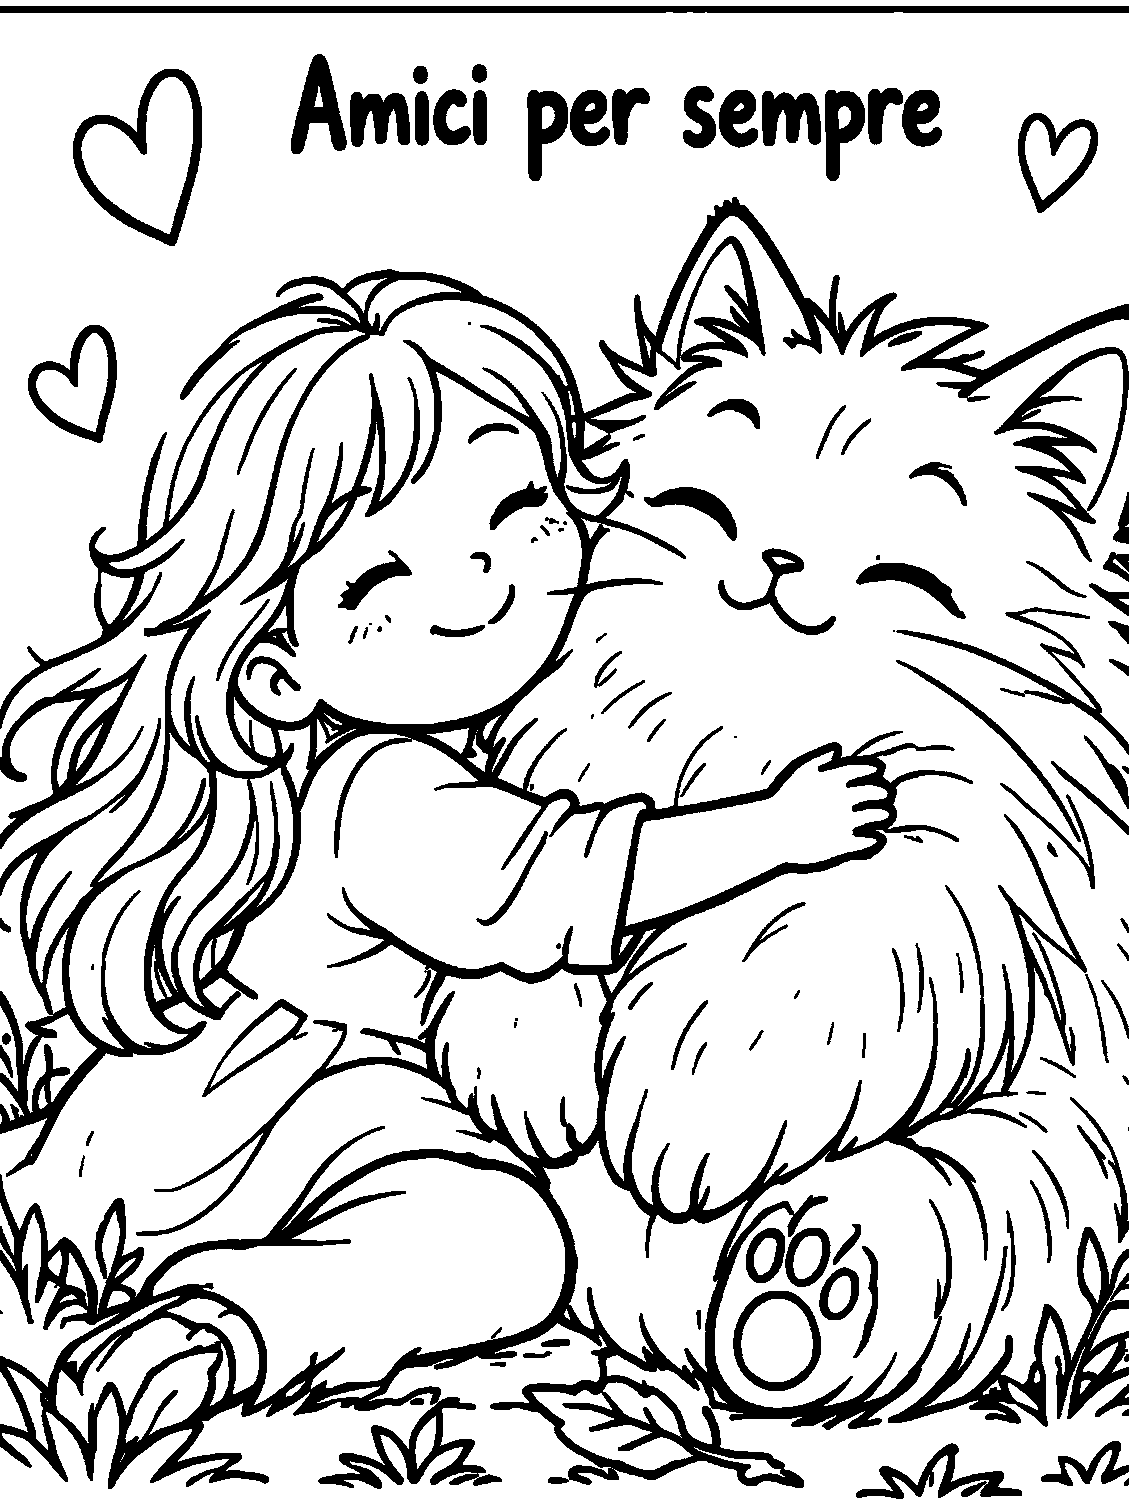
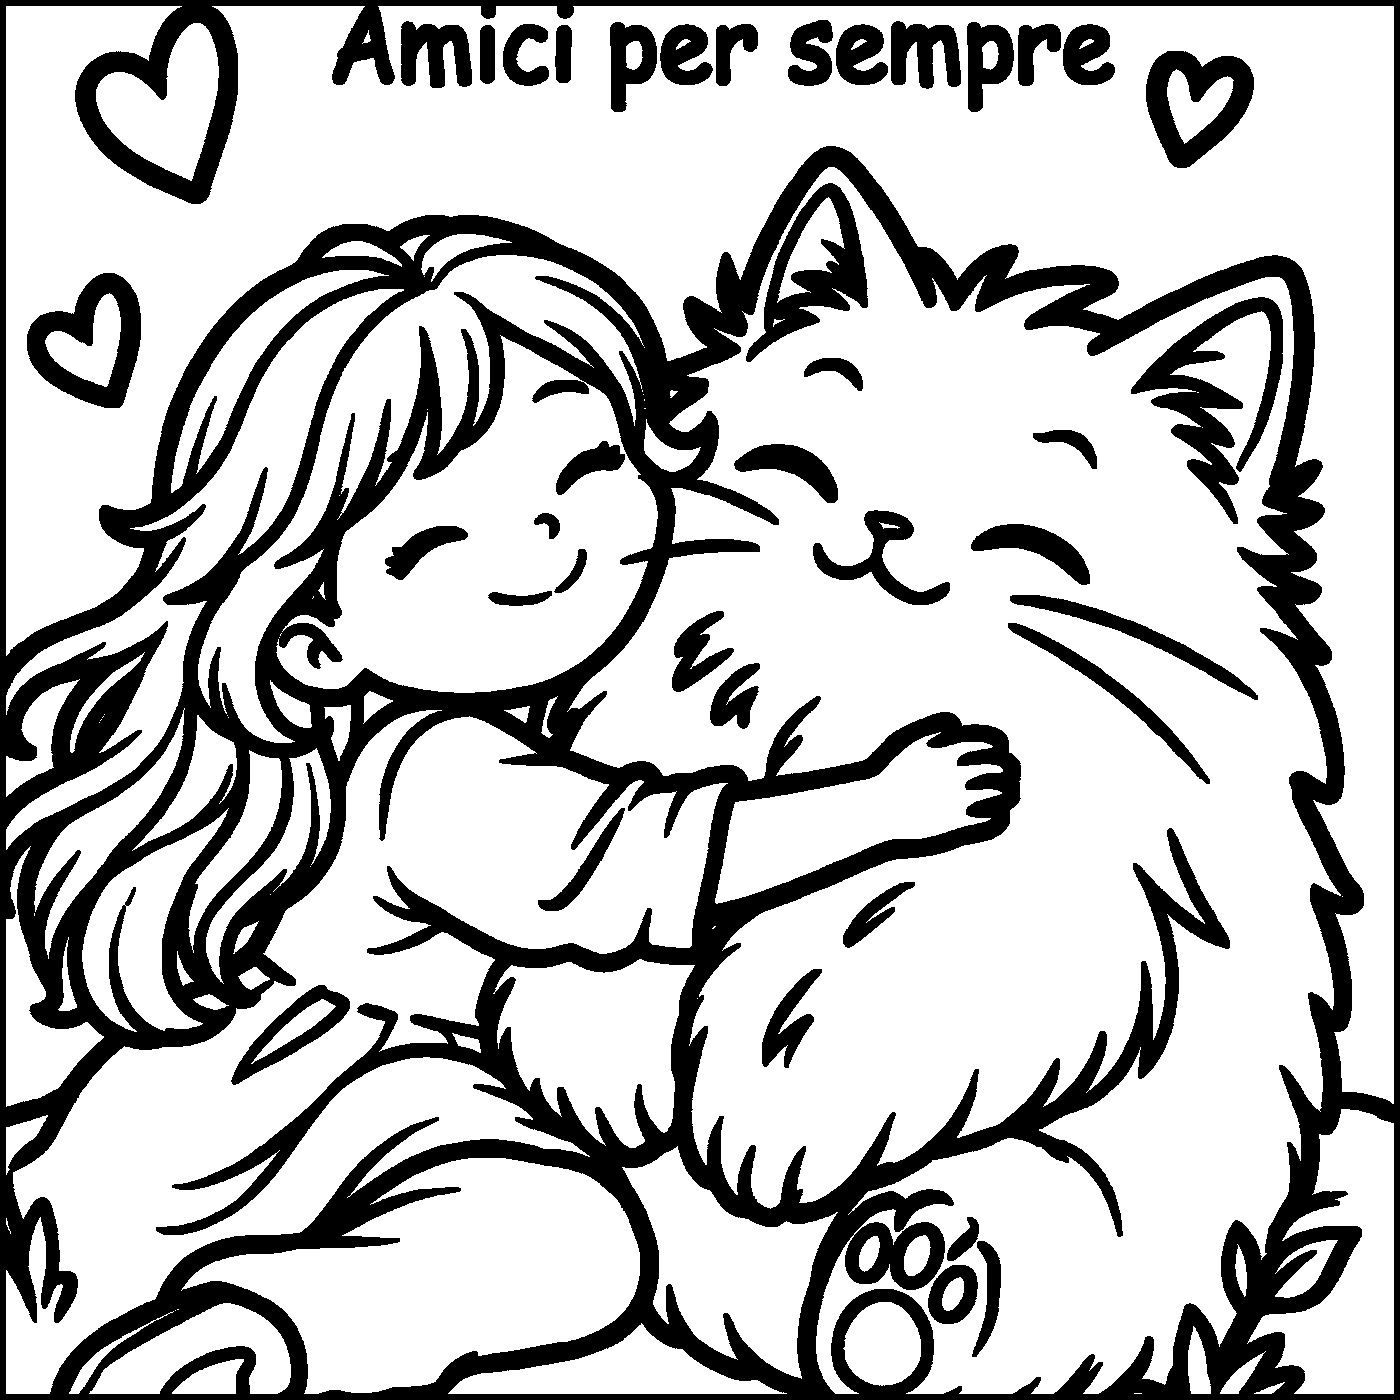
Pagine da colorare: il colore non esce più dal disegno

diff --git a/js/colora.js b/js/colora.js
@@ -7,12 +7,13 @@
     { id: "copertina", nome: "Chiwinnie" }, { id: "crescita", nome: "Le fasi della crescita" },
     { id: "colori", nome: "I colori della natura" }, { id: "bosco", nome: "Nel bosco" },
     { id: "amici", nome: "Amici per sempre" }, { id: "spinaci", nome: "La razione quotidiana" },
-    { id: "arrabbiato", nome: "Quando si arrabbia" }, { id: "volare", nome: "Volare nel cielo" }
+    { id: "volare", nome: "Volare nel cielo" }
+    // "Quando si arrabbia" tolta per ora: il pelo a punte lascia varchi e il colore usciva dal disegno
   ];
   // colori morbidi da acquerello, compresi quelli dei Chiwinnie
   var COLORI = ["#b9a7e0", "#8a74c9", "#f3b3c8", "#e2789a", "#ffffff", "#9fc6ea", "#5f8fd0", "#a8d8a0",
     "#5fa865", "#f6dc7a", "#f2a65a", "#e5604f", "#c9925e", "#8a5a3c", "#9aa0a8", "#3d3d4a"];
-  var CHIAVE = "chiwinnie-colora-";
+  var CHIAVE = "chiwinnie-colora2-"; // "2": tavole ridisegnate con contorni chiusi
   var SOGLIA_LINEA = 200; // sotto questa luminosità il pixel è una linea del disegno
 
   function carica(chiave) { try { return localStorage.getItem(chiave); } catch (e) { return null; } }
@@ -115,30 +116,78 @@
       function rgb(hex) { var n = parseInt(hex.slice(1), 16); return [n >> 16 & 255, n >> 8 & 255, n & 255]; }
 
       // riempimento a scansione di righe: si ferma sulle linee del disegno
-      function riempi(x0, y0) {
-        if (x0 < 0 || y0 < 0 || x0 >= W || y0 >= H) return;
-        var start = y0 * W + x0;
-        if (barriera[start]) return;
-        ricorda();
-        var img = cctx.getImageData(0, 0, W, H), d = img.data, c = rgb(colore);
-        var fatto = new Uint8Array(W * H), pila = [start];
-        function colora(i) { d[i * 4] = c[0]; d[i * 4 + 1] = c[1]; d[i * 4 + 2] = c[2]; d[i * 4 + 3] = 255; }
+      // linee ingrossate di n pixel (calcolate solo quando servono)
+      var muri = {};
+      function ingrossa(n) {
+        if (muri[n]) return muri[n];
+        var cur = barriera;
+        for (var giro = 0; giro < n; giro++) {
+          var nx = new Uint8Array(W * H);
+          for (var yy = 1; yy < H - 1; yy++) for (var xx = 1; xx < W - 1; xx++) {
+            var q = yy * W + xx;
+            if (cur[q] || cur[q - 1] || cur[q + 1] || cur[q - W] || cur[q + W] ||
+                cur[q - W - 1] || cur[q - W + 1] || cur[q + W - 1] || cur[q + W + 1]) nx[q] = 1;
+          }
+          cur = nx;
+        }
+        muri[n] = cur;
+        return cur;
+      }
+      // punto libero più vicino al tocco, rispetto a un certo muro
+      function puntoLibero(muro, x0, y0, maxR) {
+        if (!muro[y0 * W + x0]) return y0 * W + x0;
+        for (var raggio = 1; raggio <= maxR; raggio++)
+          for (var dy = -raggio; dy <= raggio; dy++)
+            for (var dx = -raggio; dx <= raggio; dx++) {
+              var xx = x0 + dx, yy = y0 + dy;
+              if (xx >= 0 && yy >= 0 && xx < W && yy < H && !muro[yy * W + xx]) return yy * W + xx;
+            }
+        return -1;
+      }
+      // zona raggiungibile senza attraversare il muro (riempimento a scansione di righe)
+      function zona(muro, start) {
+        var fatto = new Uint8Array(W * H), pila = [start], n = 0;
         while (pila.length) {
           var i = pila.pop(), y = (i / W) | 0, x = i - y * W;
-          while (x > 0 && !barriera[i - 1] && !fatto[i - 1]) { i--; x--; }
+          while (x > 0 && !muro[i - 1] && !fatto[i - 1]) { i--; x--; }
           var sopra = false, sotto = false;
-          while (x < W && !barriera[i] && !fatto[i]) {
-            fatto[i] = 1; colora(i);
-            if (y > 0) {
-              var su = i - W;
-              if (!barriera[su] && !fatto[su]) { if (!sopra) { pila.push(su); sopra = true; } } else sopra = false;
-            }
-            if (y < H - 1) {
-              var giu = i + W;
-              if (!barriera[giu] && !fatto[giu]) { if (!sotto) { pila.push(giu); sotto = true; } } else sotto = false;
-            }
+          while (x < W && !muro[i] && !fatto[i]) {
+            fatto[i] = 1; n++;
+            if (y > 0) { var su = i - W; if (!muro[su] && !fatto[su]) { if (!sopra) { pila.push(su); sopra = true; } } else sopra = false; }
+            if (y < H - 1) { var giu = i + W; if (!muro[giu] && !fatto[giu]) { if (!sotto) { pila.push(giu); sotto = true; } } else sotto = false; }
             i++; x++;
           }
+        }
+        return { fatto: fatto, n: n };
+      }
+
+      function riempi(x0, y0) {
+        if (x0 < 0 || y0 < 0 || x0 >= W || y0 >= H) return;
+        if (barriera[y0 * W + x0]) return;
+        var muro = ingrossa(1), start = puntoLibero(muro, x0, y0, 4);
+        if (start < 0) return;
+        var z = zona(muro, start), allarga = 2;
+        // se il colore sta per invadere più di un terzo del disegno, forse c'è un varco nel contorno:
+        // si riprova chiudendo varchi più larghi e si tiene la zona più piccola, se è molto più piccola
+        if (z.n > W * H * 0.33) {
+          var muro4 = ingrossa(4), s4 = puntoLibero(muro4, x0, y0, 10);
+          if (s4 >= 0) {
+            var z4 = zona(muro4, s4);
+            if (z4.n > W * H * 0.01 && z4.n < z.n * 0.6) { z = z4; allarga = 5; }
+          }
+        }
+        ricorda();
+        var img = cctx.getImageData(0, 0, W, H), d = img.data, c = rgb(colore), fatto = z.fatto;
+        function colora(i) { d[i * 4] = c[0]; d[i * 4 + 1] = c[1]; d[i * 4 + 2] = c[2]; d[i * 4 + 3] = 255; }
+        for (var i = 0; i < W * H; i++) if (fatto[i]) colora(i);
+        // il colore si allarga nello spazio libero fino a toccare le linee vere
+        for (var giro = 0; giro < allarga; giro++) {
+          var nuovi = [];
+          for (var p = W; p < W * H - W; p++) {
+            if (fatto[p] || barriera[p]) continue;
+            if (fatto[p - 1] || fatto[p + 1] || fatto[p - W] || fatto[p + W]) nuovi.push(p);
+          }
+          for (var nn = 0; nn < nuovi.length; nn++) { fatto[nuovi[nn]] = 1; colora(nuovi[nn]); }
         }
         // si colora anche un pixel sotto il bordo delle linee, così non restano aloni bianchi
         for (var k = W; k < W * H - W; k++) {

diff --git a/sw.js b/sw.js
@@ -1,7 +1,7 @@
 // Service worker: permette di giocare anche senza internet.
 // Al primo avvio salva i file principali; le immagini si salvano man mano che il gioco le usa.
 // Quando si pubblica una nuova versione basta cambiare VERSIONE: i telefoni scaricano i file nuovi.
-var VERSIONE = "chiwinnie-0.7.0";
+var VERSIONE = "chiwinnie-0.7.1";
 var ESSENZIALI = [
   "./", "index.html", "manifest.webmanifest", "css/gioco.css",
   "js/dati.js", "js/audio.js", "js/minigiochi.js", "js/arcade.js", "js/colora.js", "js/gioco.js",
